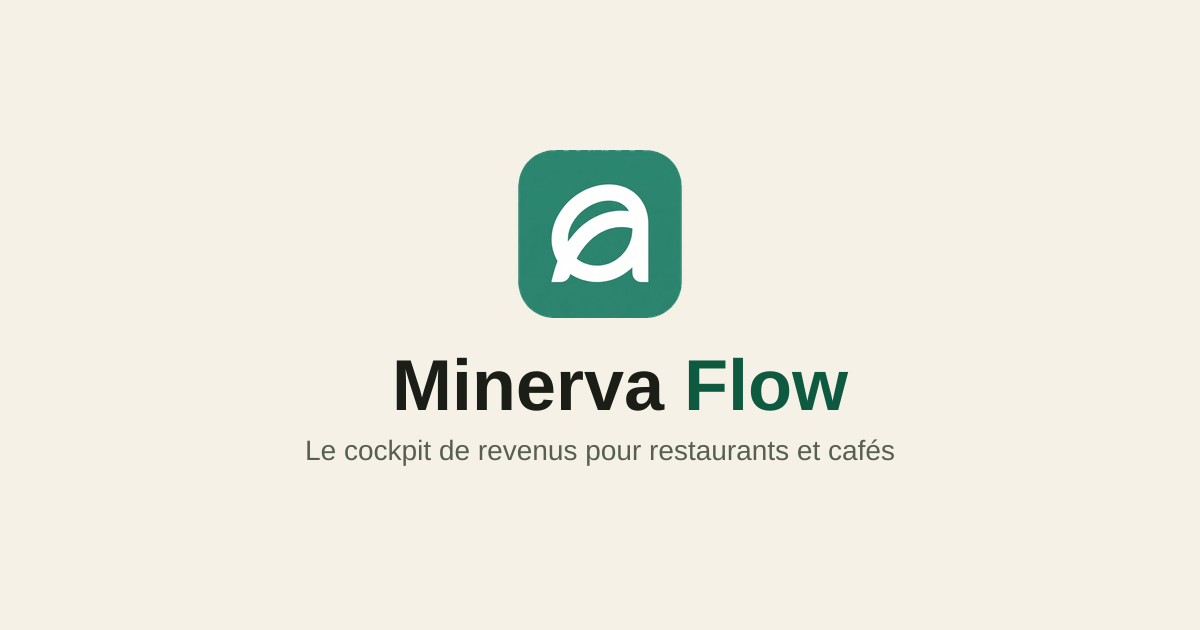
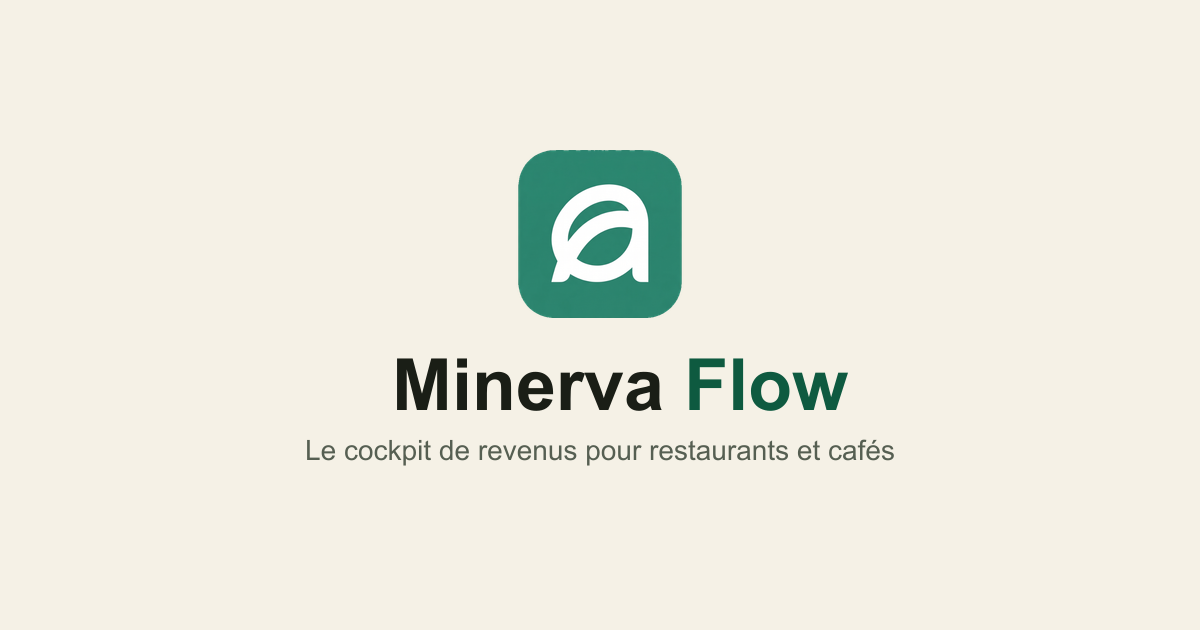
fix: adapter les métadonnées OG au layout app/[locale] après le merge i18n turc
app/layout.tsx a été supprimé par le merge de l'infrastructure i18n
(remplacé par app/[locale]/layout.tsx) pendant que cette branche était en
cours — rebase sur main + report des champs images openGraph/twitter dans
le nouveau layout localisé, régénération de public/og.png.

Claude-Session: https://claude.ai/code/session_01SkHuWdaCL8dxb2Z2brYFcj

diff --git a/app/[locale]/layout.tsx b/app/[locale]/layout.tsx
@@ -60,11 +60,13 @@ export async function generateMetadata({
       description: t("description"),
       type: "website",
       locale: ogLocales[locale] ?? "fr_FR",
+      images: [{ url: "/og.png", width: 1200, height: 630, alt: t("title") }],
     },
     twitter: {
       card: "summary_large_image",
       title: t("title"),
       description: t("description"),
+      images: ["/og.png"],
     },
     appleWebApp: {
       capable: true,